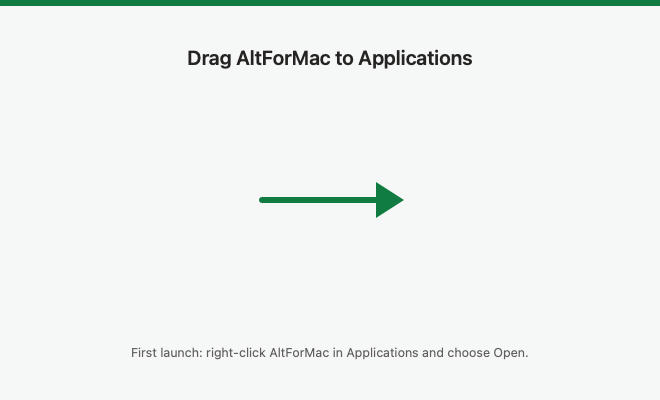
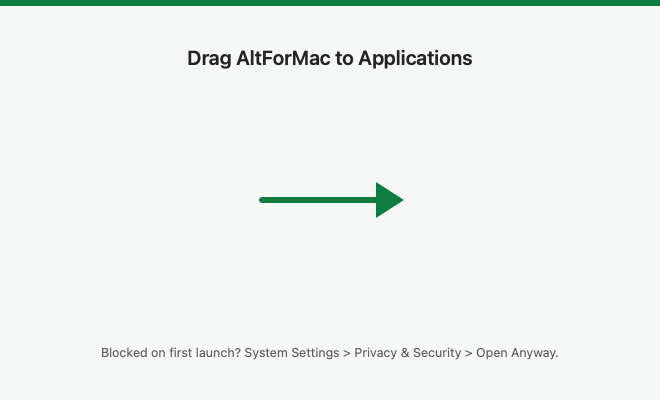
Docs: Open Anyway for first launch, re-allow Accessibility after updates
macOS 15+ no longer lets right-click > Open bypass Gatekeeper for apps that are not notarized, and an
ad-hoc signed update no longer matches the old Accessibility entry. Explain both on the site, in the
README and release notes, and in the DMG hint (next release).

Changed region(s): [[0.1515, 0.87, 0.8485, 0.9]]

diff --git a/site/index.html b/site/index.html
@@ -301,7 +301,7 @@
         <div>
           <h3>DMG</h3>
           <p><a href="https://github.com/dtung011/altformac/releases/latest/download/AltForMac.dmg">Download AltForMac.dmg</a>, open it and drag AltForMac to Applications.</p>
-          <p>It is not notarized yet: the first time, right-click it in Applications and choose <b>Open</b>.</p>
+          <p>It is not notarized yet, so macOS says it cannot verify it. Click <b>Done</b>, then in System Settings &gt; Privacy &amp; Security click <b>Open Anyway</b> next to AltForMac. Homebrew installs skip this.</p>
         </div>
         <div>
           <h3>Homebrew</h3>
@@ -320,6 +320,7 @@ cd altformac && scripts/package.sh</pre>
           <li>Start AltForMac and allow it in System Settings &gt; Privacy &amp; Security &gt; Accessibility.</li>
           <li>Allow Automation for each Office app when macOS asks.</li>
         </ol>
+        <p class="more"><b>After every update, allow Accessibility again.</b> macOS treats each new version as a different app, so the menu-bar icon shows <code>⌥!</code>. In the Accessibility list, select AltForMac, click the minus button, open AltForMac again and switch on the new entry.</p>
       </div>
     </fieldset>
 

diff --git a/scripts/make-art.swift b/scripts/make-art.swift
@@ -113,7 +113,7 @@ func drawBackground() {
     head.close()
     head.fill()
 
-    let hint = text("First launch: right-click AltForMac in Applications and choose Open.",
+    let hint = text("Blocked on first launch? System Settings > Privacy & Security > Open Anyway.",
                     size: 12.5, weight: .regular, color: hex(0x605E5C))
     hint.draw(at: NSPoint(x: (size.width - hint.size().width) / 2, y: 40))
 }

diff --git a/README.md b/README.md
@@ -25,8 +25,10 @@ Update later with `brew upgrade --cask altformac`.
 1. Open the [latest release](https://github.com/dtung011/altformac/releases/latest) and download
    `AltForMac-<version>.dmg`.
 2. Open the DMG and drag **AltForMac** to **Applications**.
-3. The app is not notarized yet, so macOS blocks the first launch. Right-click AltForMac in Applications,
-   choose **Open**, then **Open** again.
+3. The app is not notarized yet, so macOS warns that it cannot verify it is free of malware. Click **Done**,
+   open System Settings > Privacy & Security, scroll to Security and click **Open Anyway** next to
+   AltForMac, then confirm. (On macOS 13 and 14 you can instead right-click the app and choose **Open**.)
+   Homebrew installs skip this step.
 
 You can check the download against the SHA-256 printed in the release notes:
 `shasum -a 256 AltForMac-<version>.dmg`.
@@ -47,6 +49,11 @@ scripts/package.sh        # builds dist/AltForMac.app and the DMG
    switch off the Option-key KeyTips. Otherwise both react.
 2. **Allow Accessibility.** Start AltForMac, then in System Settings > Privacy & Security > Accessibility
    switch it on. Without this it cannot see or drive the menus.
+
+   **After every update, allow it again.** Until AltForMac is signed with a Developer ID, macOS treats each
+   new version as a different app, so the old switch no longer applies (the menu-bar icon shows `⌥!`).
+   Select AltForMac in the Accessibility list, click the minus button, open AltForMac again and switch on the
+   new entry. Or run `tccutil reset Accessibility dev.altformac.app`, reopen AltForMac and switch it on.
 3. **Allow Automation** for each Office app when macOS asks (needed for commands that use AppleScript).
 
 The menu-bar icon shows `⌥` when ready and `⌥!` when it needs permission or an app was slow to respond.

diff --git a/docs/release-notes/v0.1.2.md b/docs/release-notes/v0.1.2.md
@@ -10,7 +10,8 @@ so the heading and arrow were cut off. The app itself is unchanged.
 
 - **Homebrew:** `brew install --cask dtung011/altformac/altformac`
 - **Direct:** download `AltForMac-0.1.2.dmg` below, open it and drag AltForMac to Applications.
-  The app is not notarized yet, so the first time right-click it and choose **Open**.
+  The app is not notarized yet, so macOS warns that it cannot verify it. Click **Done**, then in System Settings >
+  Privacy & Security click **Open Anyway** next to AltForMac. (macOS 13 and 14: right-click the app and choose **Open**.)
 
[1 lines of base64/hex data omitted]
 
@@ -21,6 +22,9 @@ Requires macOS 13 (Ventura) or later. This build is for Apple Silicon.
 1. In Excel, Word and PowerPoint, turn **off** the Option-key KeyTips (Preferences > Accessibility),
    otherwise both react.
 2. Open AltForMac. In System Settings > Privacy & Security > Accessibility, allow it.
+   **Updating from an earlier version?** The old switch no longer applies: select AltForMac, click the minus
+   button, open AltForMac again and switch on the new entry (or run
+   `tccutil reset Accessibility dev.altformac.app` and reopen it).
 3. The first time a command needs AppleScript, allow the Automation prompt for that Office app.
 
 ### Uninstall
@@ -43,7 +47,8 @@ on. Full steps are in the [README](../../README.md#uninstall).
 
 ### Known limitations
 
-- Not notarized yet; Apple Silicon only.
+- Not notarized yet, so macOS shows a malware warning on first launch and Accessibility must be allowed again
+  after each update. Apple Silicon only.
 - Option is not skipped while you edit a cell.
 - No user overrides file and no kill switch yet.
 
